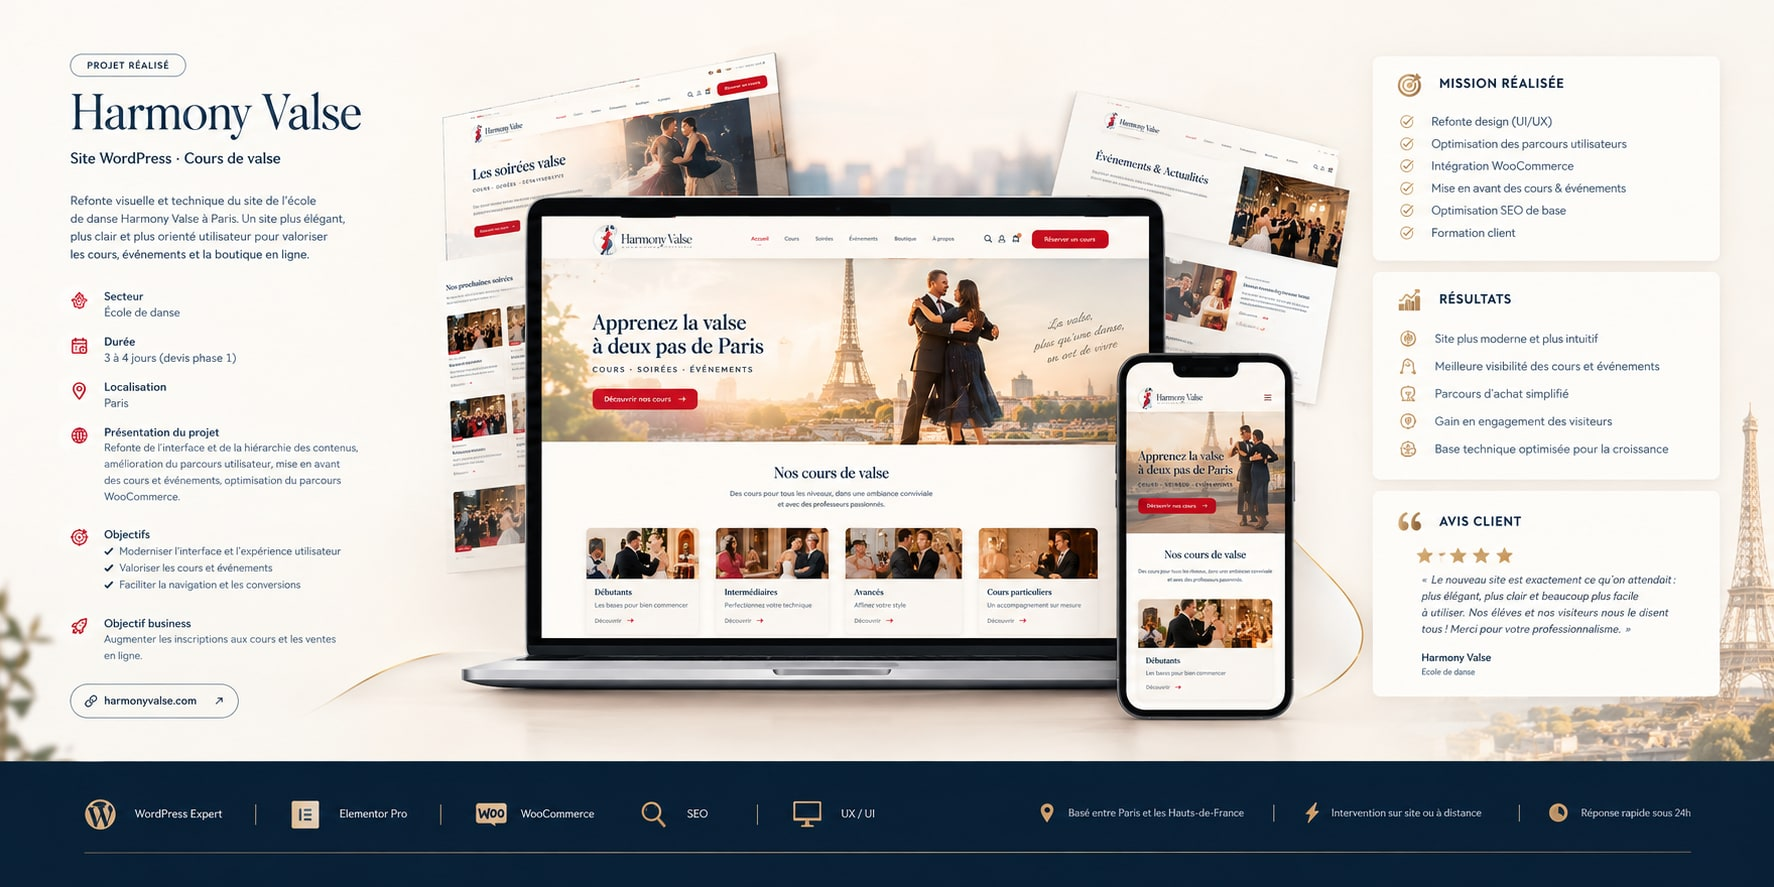
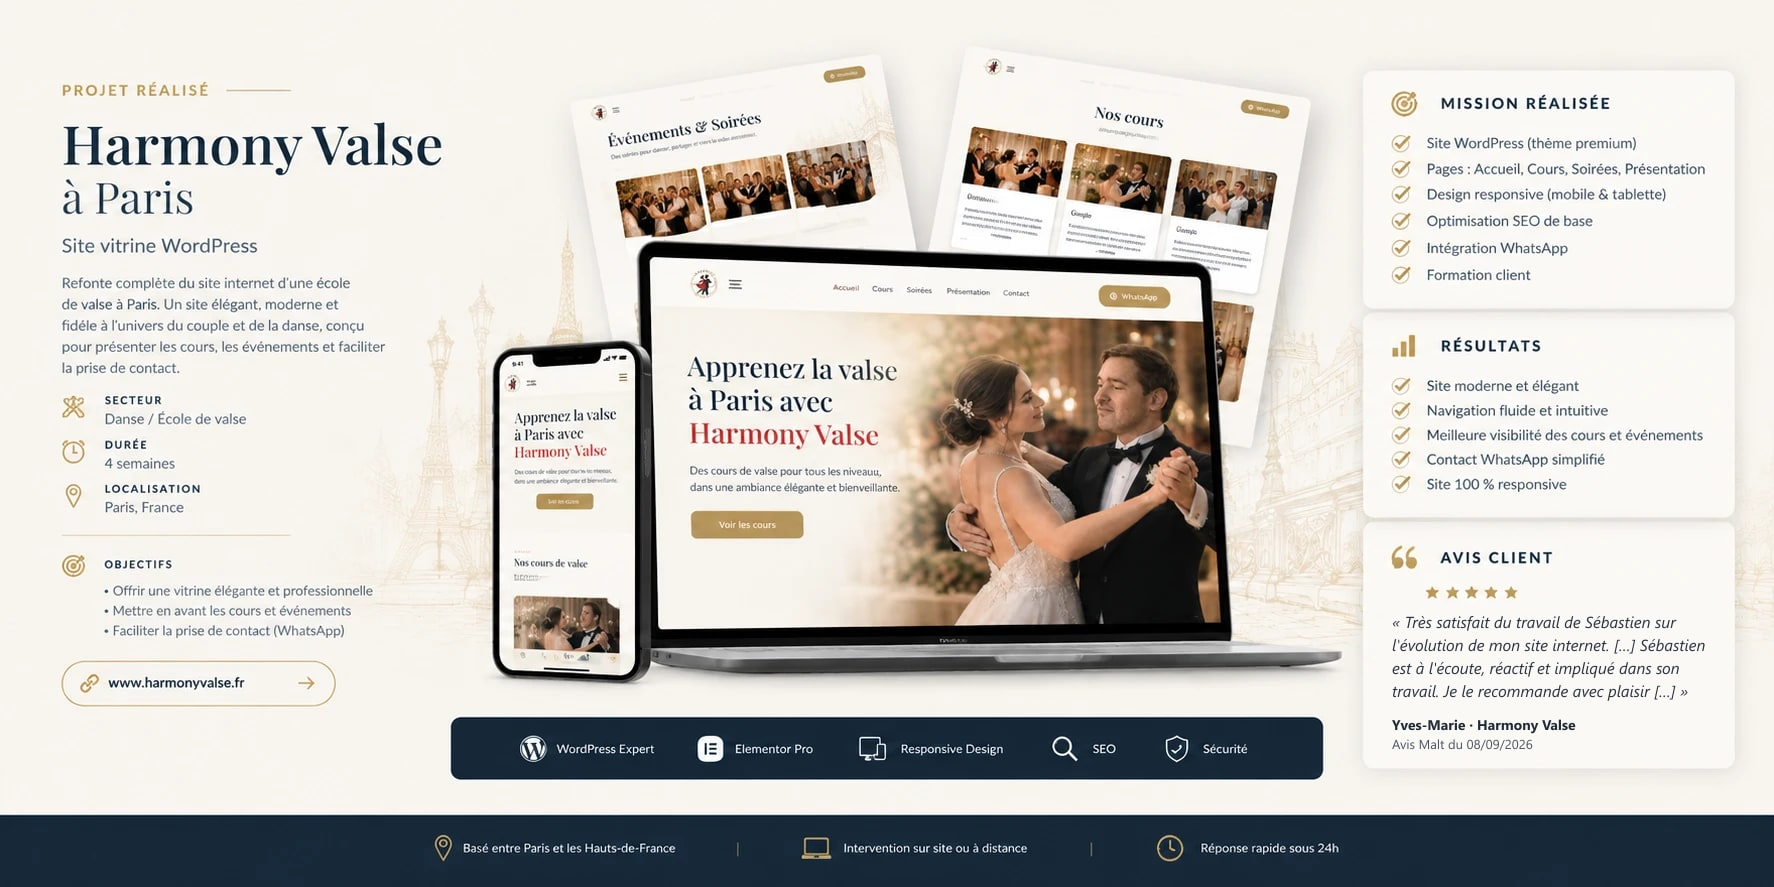
Réalisations : avis Malt d'Yves-Marie sur le visuel Harmony Valse, visuel Ciné Délices recadré sur les écrans, fiche Ciné Délices depuis l'étude de cas

diff --git a/src/lib/content/realisations.ts b/src/lib/content/realisations.ts
@@ -4,6 +4,7 @@
  * Harmony Valse, la fiche transmise par Sébastien le 14/10/2026 (portfolio Malt).
  * Fiches (`details`) de GSTI, Palimpseste Urbain, Maxilou, Petit Château Vercourt et
  * Alternativ' Uniforme : expériences publiques du profil Malt (relevées le 19/10/2026).
+ * Ciné Délices : étude de cas https://sebastienmaurice.github.io/cine-delices.html (19/10/2026).
  * Lieu du Petit Château Vercourt : adresse donnée par Sébastien (1 rue de l'Église, 80120 Vercourt).
  * Visuels : présentations complètes 1774 × 887 px (D:/GRAPHIQUE/MALT - GRAPISTE.COM/Web/CMS retenus
  * et visuels transmis par Sébastien le 19/10/2026).
@@ -11,10 +12,10 @@
  */
 export type ProjectDetails = {
 	subtitle: string;
-	sector: string;
-	period: string;
-	location: string;
-	skills: readonly string[];
+	sector?: string;
+	period?: string;
+	location?: string;
+	skills?: readonly string[];
 	summary: string;
 	context?: string;
 	interventions: readonly string[];
@@ -112,10 +113,28 @@ export const projects: readonly Project[] = [
 	{
 		slug: 'cine-delices',
 		name: 'Ciné Délices',
-		stack: 'Svelte · Node.js · PostgreSQL',
+		stack: 'JavaScript · Node.js · Express · PostgreSQL',
 		text: 'Application full stack de recettes inspirées du cinéma.',
-		url: 'https://sebastienmaurice.github.io/cine-delices.html',
-		image: 'cine-delices'
+		url: 'https://cinedelices.com/',
+		image: 'cine-delices',
+		details: {
+			subtitle: 'Application web full stack, projet de formation (Titre professionnel DWWM)',
+			period: '12 semaines de développement',
+			summary:
+				"Chaque plat est rattaché au film qui l'a inspiré : affiche, contexte, puis la recette. Développé from scratch par une équipe de 5, sans framework UI côté front.",
+			context:
+				"Trois tensions à résoudre : un cahier des charges DWWM, une équipe de 5, et l'envie de produire un site qui ne ressemble pas à un exercice.",
+			interventions: [
+				"Recettes de films : chaque plat rattaché au film qui l'a inspiré",
+				'Système de niveaux et de badges qui récompense chaque contribution',
+				'Avis et notation avec aperçu avant validation et moyenne recalculée en temps réel',
+				'Recherche live de films avec debounce dynamique et annulation des requêtes obsolètes',
+				'Direction artistique maison : parallaxe et carrousel codés à la main',
+				'Sécurité OWASP Top-10 : Argon2id, Helmet et CSP, rate limiting, JWT en cookie httpOnly, validation Joi'
+			],
+			result:
+				'Site en ligne sur cinedelices.com, hébergé sur Render (Node.js, PostgreSQL managée, déploiement continu depuis GitHub).'
+		}
 	},
 	{
 		slug: 'maxilou',
